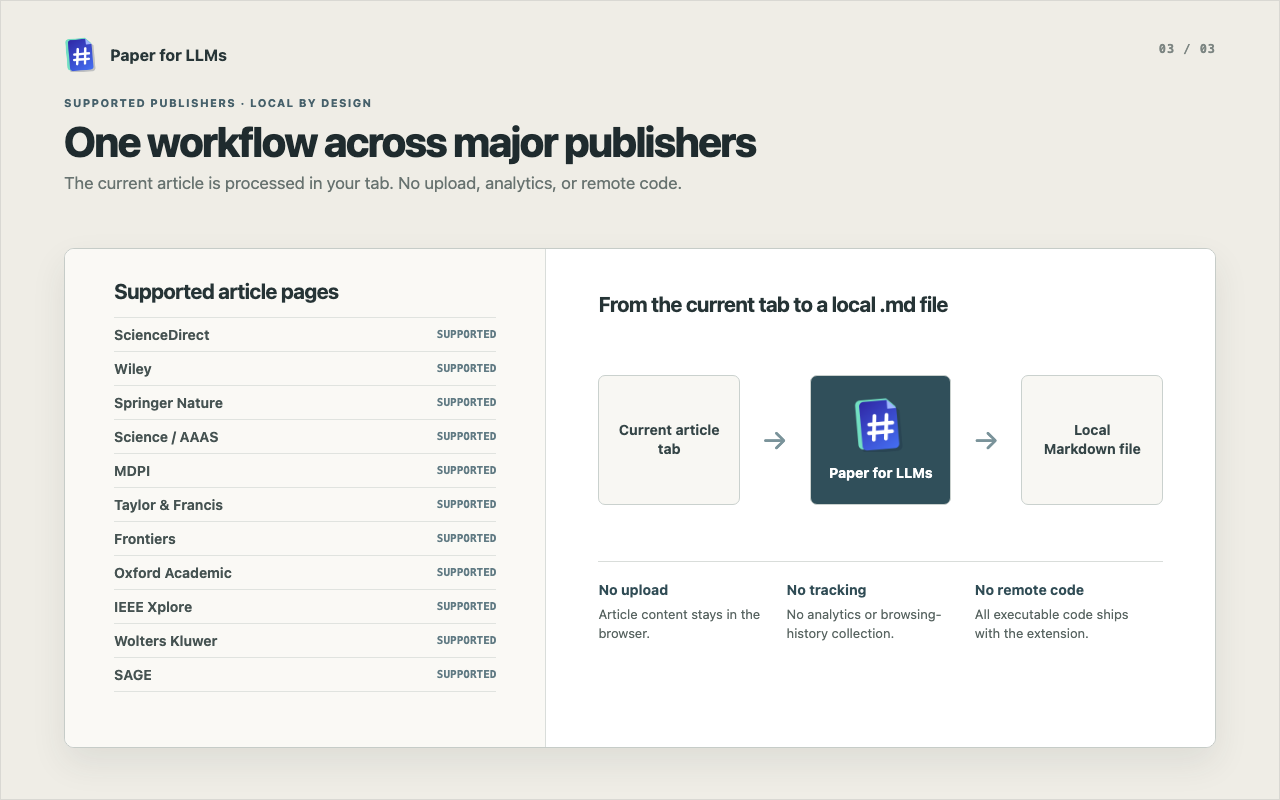
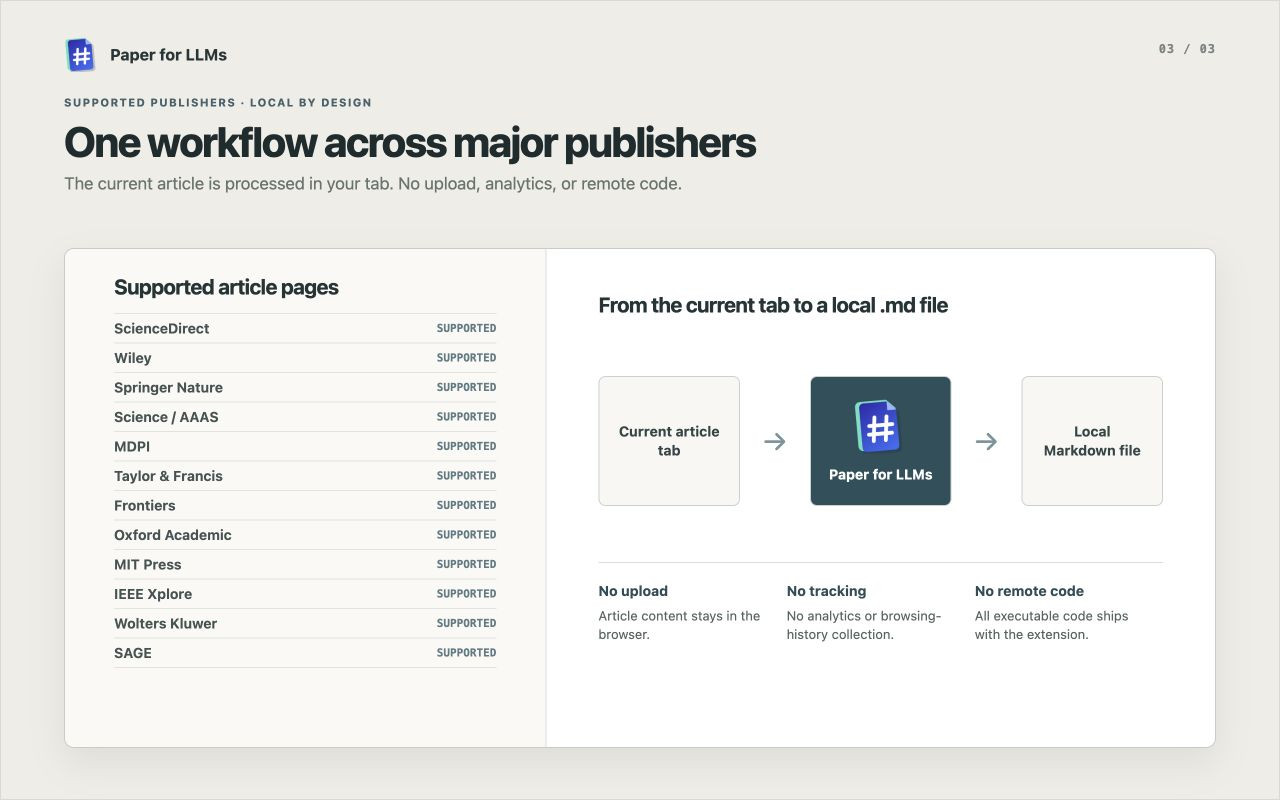
Add MIT Press Direct support

diff --git a/src/publisher-platforms.js b/src/publisher-platforms.js
@@ -163,7 +163,12 @@
       ".number",
       ".ref-number",
     ]).replace(/[.)\]]+$/g, "");
-    const id = entry.id || entry.getAttribute("data-legacy-id") || entry.getAttribute("content-id") || "";
+    const id =
+      entry.id ||
+      entry.getAttribute("data-legacy-id") ||
+      entry.getAttribute("content-id") ||
+      entry.getAttribute("data-content-id") ||
+      "";
     const match = id.match(/(?:bibr|bib|ref|b)(\d+)/i) || id.match(/(\d+)$/);
     return explicit || (match && String(Number(match[1]))) || String(index + 1);
   }
@@ -182,15 +187,19 @@
       "data-ref-id",
       "data-rid",
       "data-bib-id",
+      "data-content-id",
       "data-id",
       "name",
     ].forEach((attribute) => add(entry.getAttribute(attribute)));
-    Array.from(entry.querySelectorAll("[id], [name], [data-legacy-id], [content-id]")).forEach(
+    Array.from(
+      entry.querySelectorAll("[id], [name], [data-legacy-id], [content-id], [data-content-id]"),
+    ).forEach(
       (element) => {
         add(element.id);
         add(element.getAttribute("name"));
         add(element.getAttribute("data-legacy-id"));
         add(element.getAttribute("content-id"));
+        add(element.getAttribute("data-content-id"));
       },
     );
     if (/^\d+$/.test(String(label))) {
@@ -519,6 +528,58 @@
     noiseSelectors: ".js-splitview-ref-list, .references, .related-articles, .article-metrics",
   };
 
+  const mitPressProfile = {
+    publisher: "MIT Press",
+    sourcePlatform: "MIT Press Direct",
+    titleSelectors: ["h1.article-title-main", "h1"],
+    abstractSelectors: [
+      ".widget-ArticleFulltext .widget-items > .abstract-title + div",
+      ".abstract",
+    ],
+    bodySelectors: [".widget-ArticleFulltext .widget-items", ".article-body"],
+    referenceContainerSelectors: [
+      ".widget-ArticleFulltext .backreferences-title + div",
+      ".backreferences-title + div",
+    ],
+    prepareDocument: (document) => {
+      document.querySelectorAll(".fig.fig-section").forEach((wrapper) => {
+        if (wrapper.tagName === "FIGURE") return;
+        const figure = document.createElement("figure");
+        figure.className = wrapper.className;
+        while (wrapper.firstChild) figure.appendChild(wrapper.firstChild);
+        wrapper.replaceWith(figure);
+      });
+    },
+    referenceEntrySelector: '[data-content-id^="bib"]',
+    referenceContentSelector: ".ref-content, .ref",
+    referenceNoiseSelectors: [
+      ".citation-links",
+      ".ref-links",
+      ".reference-links",
+      ".google-scholar",
+      ".google-scholar-ref-link",
+      ".js-ref-link",
+    ].join(", "),
+    citationTokens: (element) => [
+      element.getAttribute("data-modal-source-id") ||
+      element.getAttribute("data-content-id") ||
+      element.getAttribute("href") ||
+      "",
+    ],
+    isCitation: (element) => element.matches("a.xref-bibr, a.link-ref[data-modal-source-id]"),
+    noiseSelectors: [
+      ".abstract-title",
+      ".backreferences-title",
+      ".backreferences-title + div",
+      ".authornotes-section-wrapper",
+      ".permissionstatement-section-wrapper",
+      ".article-metadata-standalone-panel",
+      ".fig-orig",
+      ".table-modal",
+      "#sr-fig-viewer-action",
+    ].join(", "),
+  };
+
   const sageProfile = {
     publisher: "SAGE Publications",
     sourcePlatform: "SAGE Journals",
@@ -555,6 +616,7 @@
   const mdpi = makeExtractor(mdpiProfile);
   const taylorfrancis = makeExtractor(taylorFrancisProfile);
   const oup = makeExtractor(oupProfile);
+  const mitpress = makeExtractor(mitPressProfile);
   const sage = makeExtractor(sageProfile);
   const frontiersBase = makeExtractor(frontiersBaseProfile);
 
@@ -743,6 +805,7 @@
   PaperMd.taylorfrancis = taylorfrancis;
   PaperMd.frontiers = frontiersBase;
   PaperMd.oup = oup;
+  PaperMd.mitpress = mitpress;
   PaperMd.ieee = { extract: extractIeee, extractMetadata: ieeeMetadata, prepare: prepareIeee };
   PaperMd.wolterskluwer = makeExtractor(woltersProfile);
   PaperMd.sage = sage;
@@ -753,6 +816,7 @@
       taylorfrancis: PaperMd.taylorfrancis,
       frontiers: PaperMd.frontiers,
       oup: PaperMd.oup,
+      mitpress: PaperMd.mitpress,
       ieee: PaperMd.ieee,
       wolterskluwer: PaperMd.wolterskluwer,
       sage: PaperMd.sage,

diff --git a/tests/browser-test.js b/tests/browser-test.js
@@ -260,6 +260,16 @@
     assert("Oxford: extracts metadata", oupResult.metadata.journal === "Nucleic Acids Research");
     assert("Oxford: maps reveal-id citations", oupResult.markdown.includes("[Author, 2025](#ref-1)"));
 
+    const mitPressResult = extractFixture("mitpress-fixture", globalThis.PaperMd.mitpress);
+    assert("MIT Press: extracts QSS metadata", mitPressResult.metadata.journal === "Quantitative Science Studies" && mitPressResult.metadata.doi === "10.1162/qss_a_example");
+    assert("MIT Press: extracts all authors", mitPressResult.metadata.authors.join("|") === "MIT Author One|MIT Author Two");
+    assert("MIT Press: maps data-modal-source-id citations", mitPressResult.markdown.includes("[Author, 2025](#ref-1)") && mitPressResult.diagnostics.unresolvedCitations.length === 0);
+    assert("MIT Press: preserves figures", mitPressResult.markdown.includes("https://direct.mit.edu/qss/example-figure.png"));
+    assert("MIT Press: preserves display formulas and tables", mitPressResult.markdown.includes("$$\n\\frac{a}{b}\n$$") && mitPressResult.markdown.includes("Example table cell"));
+    assert("MIT Press: emits one abstract section", mitPressResult.markdown.match(/## Abstract/g)?.length === 1);
+    assert("MIT Press: omits page controls and duplicated modal tables", !mitPressResult.markdown.includes("View large") && !mitPressResult.markdown.includes("Duplicate modal cell"));
+    assert("MIT Press: omits reference controls", !mitPressResult.markdown.includes("Google Scholar") && !mitPressResult.markdown.includes("Crossref") && !mitPressResult.markdown.includes("License boilerplate"));
+
     const ieeeResult = extractFixture("ieee-fixture", globalThis.PaperMd.ieee);
     assert("IEEE: extracts visible metadata", ieeeResult.metadata.journal === "IEEE Access" && ieeeResult.metadata.doi === "10.1109/ACCESS.2026.1");
     assert("IEEE: extracts all displayed authors", ieeeResult.metadata.authors.join("|") === "IEEE Author One|IEEE Author Two");
@@ -314,7 +324,7 @@
     assert("Wiley: waits for a delayed reference container", delayedWileyResult.diagnostics.references === 1);
     assert("Wiley: resolves citations after delayed loading", delayedWileyResult.markdown.includes("[1](#ref-1)"));
 
-    output.textContent = `${result.markdown}\n\n${wileyResult.markdown}\n\n${springerResult.markdown}\n\n${scienceResult.markdown}\n\n${paywalledScienceResult.markdown}\n\n${delayedWileyResult.markdown}\n\n${mdpiResult.markdown}\n\n${taylorFrancisResult.markdown}\n\n${frontiersResult.markdown}\n\n${oupResult.markdown}\n\n${ieeeResult.markdown}\n\n${woltersResult.markdown}\n\n${sageResult.markdown}`;
+    output.textContent = `${result.markdown}\n\n${wileyResult.markdown}\n\n${springerResult.markdown}\n\n${scienceResult.markdown}\n\n${paywalledScienceResult.markdown}\n\n${delayedWileyResult.markdown}\n\n${mdpiResult.markdown}\n\n${taylorFrancisResult.markdown}\n\n${frontiersResult.markdown}\n\n${oupResult.markdown}\n\n${mitPressResult.markdown}\n\n${ieeeResult.markdown}\n\n${woltersResult.markdown}\n\n${sageResult.markdown}`;
   } catch (error) {
     assertions.push({ name: error.stack || error.message, pass: false });
   }

diff --git a/tests/fixtures/publisher-platforms.html b/tests/fixtures/publisher-platforms.html
@@ -59,6 +59,32 @@
       </body></html>
     </template>
 
+    <template id="mitpress-fixture">
+      <html lang="en"><head>
+        <meta name="citation_title" content="A representative MIT Press paper">
+        <meta name="citation_author" content="MIT Author One">
+        <meta name="citation_author" content="MIT Author Two">
+        <meta name="citation_journal_title" content="Quantitative Science Studies">
+        <meta name="citation_publication_date" content="2026/01/01">
+        <meta name="citation_doi" content="10.1162/qss_a_example">
+        <meta name="citation_publisher" content="MIT Press">
+        <link rel="canonical" href="https://direct.mit.edu/qss/article/doi/10.1162/qss_a_example/1/example">
+      </head><body><h1 class="article-title-main">A representative MIT Press paper <span>Open Access</span></h1>
+        <div class="article-body"><div id="ContentTab"><div class="widget-ArticleFulltext"><div class="widget-items">
+          <h2 class="abstract-title jumplink-heading">Abstract</h2>
+          <div><p>This representative abstract is long enough to exercise the MIT Press Direct abstract selector.</p></div>
+          <h2 class="section-title jumplink-heading">1. INTRODUCTION</h2>
+          <div><p>MIT Press evidence (<a href="javascript:;" data-modal-source-id="bib1" class="link link-ref xref-bibr">Author, 2025</a>). This paragraph contains enough representative article text for body selection.</p>
+          <div class="fig fig-section"><div class="graphic-wrap"><img src="/qss/example-figure.png" alt="Example figure"><div class="fig-orig"><a class="fig-view-orig">View large</a><a class="download-slide">Download slide</a></div></div><div class="caption fig-caption"><p>Figure 1. Example.</p></div></div>
+          <div class="disp-formula"><math display="block"><mfrac><mi>a</mi><mi>b</mi></mfrac></math></div>
+          <div class="table-wrap"><div class="table-wrap-title"><strong>Table 1.</strong> Example table.</div><table><tr><td>Example table cell</td></tr></table><div class="table-modal"><table><tr><td>Duplicate modal cell</td></tr></table></div></div></div>
+          <h2 class="backreferences-title jumplink-heading">REFERENCES</h2>
+          <div><div data-content-id="bib1"><div class="ref false"><div class="ref-content"><div class="citation mixed-citation">MIT Author. (2025). A reference. 10.1000/mit.1 <div class="citation-links"><div class="google-scholar-ref-link js-ref-link">Google Scholar</div><div class="crossref-doi js-ref-link">Crossref</div></div></div></div></div></div></div>
+          <div class="permissionstatement-section-wrapper">License boilerplate.</div>
+        </div></div></div></div>
+      </body></html>
+    </template>
+
     <template id="ieee-fixture">
       <html lang="en"><head><link rel="canonical" href="https://ieeexplore.ieee.org/document/1"></head><body>
         <main id="xplMainContentLandmark"><h1 class="document-title">A representative IEEE paper</h1>

diff --git a/store/assets/source/render.html b/store/assets/source/render.html
@@ -574,7 +574,7 @@
       }
 
       .publisher-list {
-        padding: 30px 49px;
+        padding: 25px 49px;
         border-right: 1px solid #d9ddda;
         background: #faf9f5;
       }
@@ -595,7 +595,7 @@
         display: flex;
         align-items: center;
         justify-content: space-between;
-        padding: 8px 0;
+        padding: 6px 0;
         border-top: 1px solid #e0e3df;
         color: #465352;
         font-size: 14px;
@@ -891,7 +891,7 @@
       }
 
       function renderShotThree() {
-        const publishers = ["ScienceDirect", "Wiley", "Springer Nature", "Science / AAAS", "MDPI", "Taylor & Francis", "Frontiers", "Oxford Academic", "IEEE Xplore", "Wolters Kluwer", "SAGE"];
+        const publishers = ["ScienceDirect", "Wiley", "Springer Nature", "Science / AAAS", "MDPI", "Taylor & Francis", "Frontiers", "Oxford Academic", "MIT Press", "IEEE Xplore", "Wolters Kluwer", "SAGE"];
         const content = `
           <section class="privacy-stage">
             <article class="publisher-list">

diff --git a/popup.js b/popup.js
@@ -99,6 +99,9 @@
       if (parsed.hostname === "academic.oup.com" && /\/article\//i.test(parsed.pathname)) {
         return { id: "oup", label: "Oxford Academic" };
       }
+      if (parsed.hostname === "direct.mit.edu" && /^\/[^/]+\/article\//i.test(parsed.pathname)) {
+        return { id: "mitpress", label: "MIT Press Direct" };
+      }
       if (parsed.hostname === "ieeexplore.ieee.org" && /^\/document\/\d+/i.test(parsed.pathname)) {
         return { id: "ieee", label: "IEEE Xplore" };
       }

diff --git a/src/content.js b/src/content.js
@@ -63,6 +63,9 @@
     if (location.hostname === "academic.oup.com" && /\/article\//i.test(location.pathname)) {
       return "oup";
     }
+    if (location.hostname === "direct.mit.edu" && /^\/[^/]+\/article\//i.test(location.pathname)) {
+      return "mitpress";
+    }
     if (location.hostname === "ieeexplore.ieee.org" && /^\/document\/\d+/i.test(location.pathname)) {
       return "ieee";
     }

diff --git a/README.md b/README.md
@@ -15,6 +15,7 @@ The extension currently supports:
 - Taylor & Francis Online
 - Frontiers
 - Oxford Academic
+- MIT Press Direct
 - IEEE Xplore
 - Wolters Kluwer / Ovid
 - SAGE Journals, including the SAGE China platform
@@ -45,6 +46,7 @@ https://www.mdpi.com/ISSN/volume/issue/article
 https://www.tandfonline.com/doi/full/10....
 https://www.frontiersin.org/journals/.../articles/10.3389/.../full
 https://academic.oup.com/.../article/...
+https://direct.mit.edu/.../article/...
 https://ieeexplore.ieee.org/document/...
 https://www.ovid.com/jnls/.../fulltext/...
 https://journals.sagepub.com/doi/10.1177/...
@@ -77,7 +79,7 @@ Paper for LLMs prioritizes publisher-provided identifiers rather than matching r
 - Wiley citation links are mapped to the corresponding `data-bib-id` entries.
 - Nature and SpringerLink fragments such as `ref-CR30` are mapped to their reference containers.
 - Science / AAAS `data-xml-rid` values are mapped to bibliography entry IDs.
-- MDPI fragment IDs, Taylor & Francis `data-rid` values, Frontiers reference buttons, Oxford `reveal-id` values, IEEE `anchor` values, Wolters Kluwer hydrated `refId` values, and SAGE `data-ref-id` values are mapped to their publisher reference entries.
+- MDPI fragment IDs, Taylor & Francis `data-rid` values, Frontiers reference buttons, Oxford `reveal-id` values, MIT Press `data-modal-source-id` values, IEEE `anchor` values, Wolters Kluwer hydrated `refId` values, and SAGE `data-ref-id` values are mapped to their publisher reference entries.
 
 The generated Markdown ends with an audit marker similar to:
 
@@ -135,7 +137,7 @@ src/sciencedirect.js     ScienceDirect extractor
 src/wiley.js             Wiley extractor
 src/springernature.js    Nature and SpringerLink extractor
 src/science.js           Science / AAAS extractor
-src/publisher-platforms.js  MDPI, Taylor & Francis, Frontiers, Oxford, IEEE, Wolters Kluwer, and SAGE extractors
+src/publisher-platforms.js  MDPI, Taylor & Francis, Frontiers, Oxford, MIT Press, IEEE, Wolters Kluwer, and SAGE extractors
 tests/                   Unit and browser DOM fixtures
 store/                   Chrome Web Store copy and release checklist
 CONTRIBUTING*.md          Contribution guides

diff --git a/CHANGELOG.md b/CHANGELOG.md
@@ -1,12 +1,5 @@
 # Changelog
 
-## 1.1.0 — 2026-07-29
-
-- Add citation-linked Markdown extraction for MDPI, Taylor & Francis, Frontiers, Oxford Academic, IEEE Xplore, Wolters Kluwer/Ovid, and SAGE Journals.
-- Validate each new publisher against at least three open-access articles from different journals.
-- Load IEEE references on demand and recover complete Wolters Kluwer author lists from publisher-provided structured data.
-- Expand browser regression coverage to 90 assertions across all supported platforms.
-
 English | [简体中文](CHANGELOG.zh-CN.md)
 
 All notable changes to Paper for LLMs will be documented here.
@@ -14,6 +7,20 @@ All notable changes to Paper for LLMs will be documented here.
 ## Unreleased
 
 - No changes yet.
+
+## 1.2.0 — 2026-07-29
+
+- Add MIT Press Direct support, including Quantitative Science Studies, Open Mind, Network Neuroscience, and other journals using the same article platform.
+- Preserve MIT Press citation-to-reference links through `data-modal-source-id` and `data-content-id` identifiers.
+- Preserve MIT Press figures, captions, tables, and MathML formulas while removing duplicate viewer controls and reference lookup links.
+- Validate the extractor against three open-access articles from three MIT Press journals and expand browser regression coverage to 98 assertions.
+
+## 1.1.0 — 2026-07-29
+
+- Add citation-linked Markdown extraction for MDPI, Taylor & Francis, Frontiers, Oxford Academic, IEEE Xplore, Wolters Kluwer/Ovid, and SAGE Journals.
+- Validate each new publisher against at least three open-access articles from different journals.
+- Load IEEE references on demand and recover complete Wolters Kluwer author lists from publisher-provided structured data.
+- Expand browser regression coverage to 90 assertions across all supported platforms.
 
 ## 1.0.0 — 2026-07-25
 

diff --git a/CHANGELOG.zh-CN.md b/CHANGELOG.zh-CN.md
@@ -1,12 +1,5 @@
 # 更新日志
 
-## 1.1.0 — 2026-07-29
-
-- 新增 MDPI、Taylor & Francis、Frontiers、Oxford Academic、IEEE Xplore、Wolters Kluwer/Ovid 与 SAGE Journals 的保留引文链接 Markdown 解析。
-- 每家新增出版商均使用至少三篇来自不同期刊的开放获取论文进行验证。
-- 支持按需加载 IEEE 参考文献，并从出版商结构化数据中恢复 Wolters Kluwer 的完整作者列表。
-- 浏览器回归测试扩展到覆盖全部支持平台的 90 项断言。
-
 [English](CHANGELOG.md) | 简体中文
 
 Paper for LLMs 的重要变更都会记录在此。
@@ -14,6 +7,20 @@ Paper for LLMs 的重要变更都会记录在此。
 ## 尚未发布
 
 - 暂无变更。
+
+## 1.2.0 — 2026-07-29
+
+- 新增 MIT Press Direct 支持，覆盖 Quantitative Science Studies、Open Mind、Network Neuroscience 以及使用相同论文平台的其他期刊。
+- 通过 `data-modal-source-id` 与 `data-content-id` 保留 MIT Press 文内引用到参考文献的准确链接。
+- 保留 MIT Press 图片、图注、表格与 MathML 公式，并移除重复查看控件和参考文献检索链接。
+- 使用三本 MIT Press 期刊的三篇开放获取论文验证解析器，并将浏览器回归测试扩展到 98 项断言。
+
+## 1.1.0 — 2026-07-29
+
+- 新增 MDPI、Taylor & Francis、Frontiers、Oxford Academic、IEEE Xplore、Wolters Kluwer/Ovid 与 SAGE Journals 的保留引文链接 Markdown 解析。
+- 每家新增出版商均使用至少三篇来自不同期刊的开放获取论文进行验证。
+- 支持按需加载 IEEE 参考文献，并从出版商结构化数据中恢复 Wolters Kluwer 的完整作者列表。
+- 浏览器回归测试扩展到覆盖全部支持平台的 90 项断言。
 
 ## 1.0.0 — 2026-07-25
 

diff --git a/store/STORE_LISTING.md b/store/STORE_LISTING.md
@@ -25,7 +25,7 @@ Key features:
 - Preserve title, authors, affiliations, journal metadata, abstract, keywords, headings, lists, tables, formulas, figures, captions, and footnotes.
 - Link in-text citations to matching reference entries and preserve reference order, text, DOI, and external links.
 - Report unresolved citation targets instead of silently guessing.
-- Support ScienceDirect, Wiley Online Library, Nature, SpringerLink, Science / AAAS, MDPI, Taylor & Francis, Frontiers, Oxford Academic, IEEE Xplore, Wolters Kluwer/Ovid, and SAGE article pages.
+- Support ScienceDirect, Wiley Online Library, Nature, SpringerLink, Science / AAAS, MDPI, Taylor & Francis, Frontiers, Oxford Academic, MIT Press Direct, IEEE Xplore, Wolters Kluwer/Ovid, and SAGE article pages.
 - Follow the Chrome interface language automatically, with a persistent Chinese/English override.
 - Copy the generated Markdown or download it as a local `.md` file.
 
@@ -64,6 +64,7 @@ No Paper for LLMs account or test credentials are required.
    - `https://www.sciencedirect.com/science/article/pii/S0048733320301475`
    - `https://asistdl.onlinelibrary.wiley.com/doi/10.1002/asi.70104`
    - `https://www.science.org/doi/10.1126/sciadv.ads7738`
+   - `https://direct.mit.edu/qss/article/doi/10.1162/qss_a_00346/126307/Teaching-counts-Open-Educational-Resources-as-an`
 3. Complete any publisher-provided cookie or human-verification page if it appears. The extension does not bypass it.
 4. Select the Paper for LLMs icon and choose **Convert current paper**.
 5. Confirm that the output contains Markdown headings and a References section.
